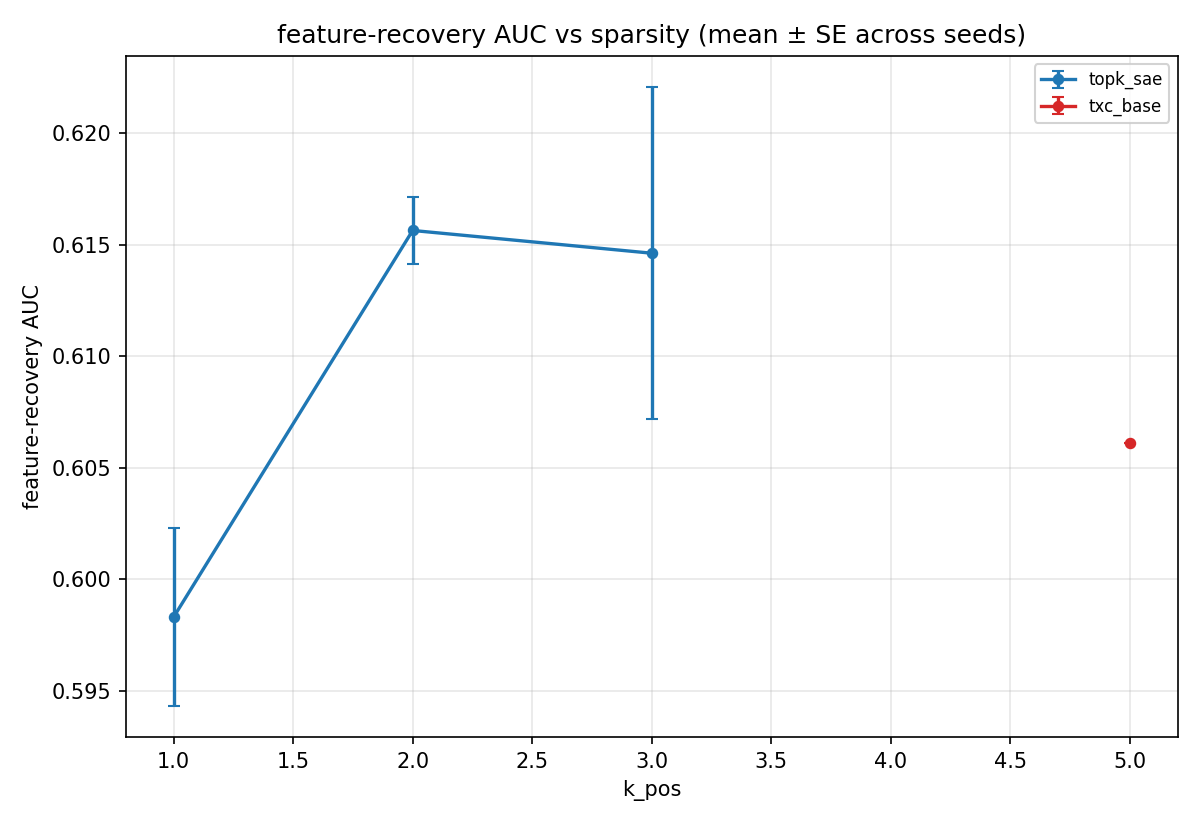
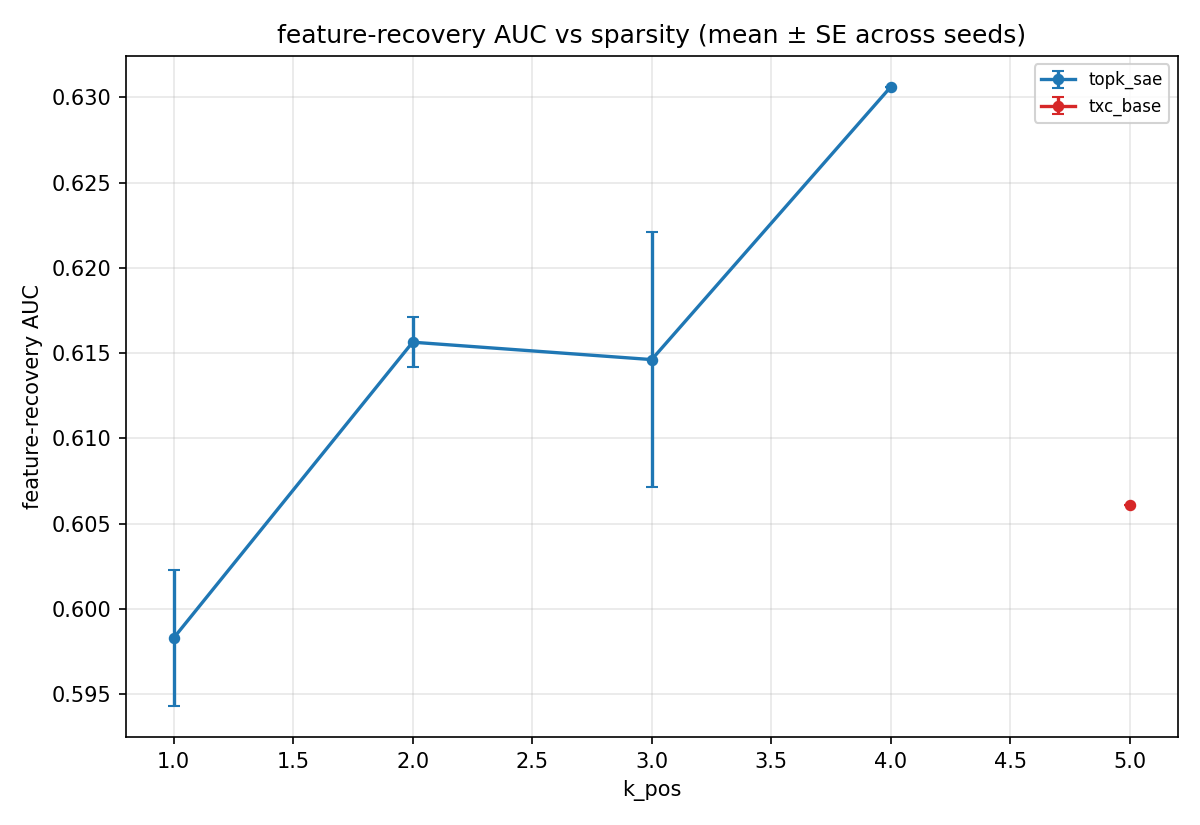
c1+c2 paper auto: refresh synthetic bundles (c1=, c2= leaderboard rows)
Auto-generated by purified/scripts/synthetic_paper_renderer.py.
Inputs: results/leaderboard.jsonl filtered to component in (c1,c2)
with eval_cfg._full_suite=true (the c{1,2}_synthetic_*_full driver flag).

diff --git a/purified/docs/components/c1_paper_results.md b/purified/docs/components/c1_paper_results.md
@@ -1,6 +1,6 @@
 # C1 Synthetic TopK — paper-ready results (auto-generated)
 
-_Last refreshed: 2026-05-06T06:25:32+00:00_
+_Last refreshed: 2026-05-06T06:35:35+00:00_
 
 ## Setup
 
@@ -9,13 +9,13 @@ _Last refreshed: 2026-05-06T06:25:32+00:00_
 - Metric: feature-recovery AUC against the 20 ground-truth orthogonal directions (per-feature max cosine ≥ τ, integrated over τ ∈ [0, 1]).
 - Driver: `experiments/c1_synthetic_topk_full/run.py` (routes through `temp_bench.data.toy_full.api`, isolated from agent_filler's `toy_markov_n20_d40` cache via distinct `act_cache_key`).
 
-Currently 10 cells across 2 (arch, T) configurations; seeds-per-cell range = [1, 3].
+Currently 11 cells across 2 (arch, T) configurations; seeds-per-cell range = [1].
 
 ## Headline (peak AUC over k_pos)
 
 | arch | T | k\* | AUC (mean ± SE) | n seeds |
 |------|---|----|---------------------------|---------|
-| `topk_sae` | — | 2 | 0.616 ± 0.001 | 3 |
+| `topk_sae` | — | 4 | 0.631 ± 0.000 | 1 |
 | `txc_base` | — | 5 | 0.606 ± 0.000 | 1 |
 
 ## AUC vs k_pos
@@ -24,7 +24,7 @@ Currently 10 cells across 2 (arch, T) configurations; seeds-per-cell range = [1,
 
 ## Per-cell mean (averaged across seeds)
 
-| arch (T) | k=1 | k=2 | k=3 | k=5 |
-|---|---|---|---|---|
-| `topk_sae` | 0.598 | 0.616 | 0.615 | — |
-| `txc_base` | — | — | — | 0.606 |
+| arch (T) | k=1 | k=2 | k=3 | k=4 | k=5 |
+|---|---|---|---|---|---|
+| `topk_sae` | 0.598 | 0.616 | 0.615 | 0.631 | — |
+| `txc_base` | — | — | — | — | 0.606 |

diff --git a/purified/docs/components/c2_paper_results.md b/purified/docs/components/c2_paper_results.md
@@ -1,6 +1,6 @@
 # C2 Synthetic Coupled — paper-ready results (auto-generated)
 
-_Last refreshed: 2026-05-06T06:25:32+00:00_
+_Last refreshed: 2026-05-06T06:35:36+00:00_
 
 ## Setup
 
